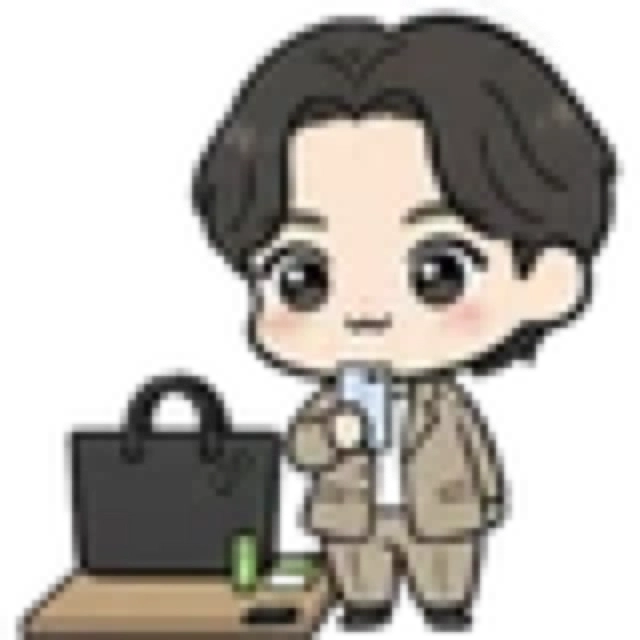
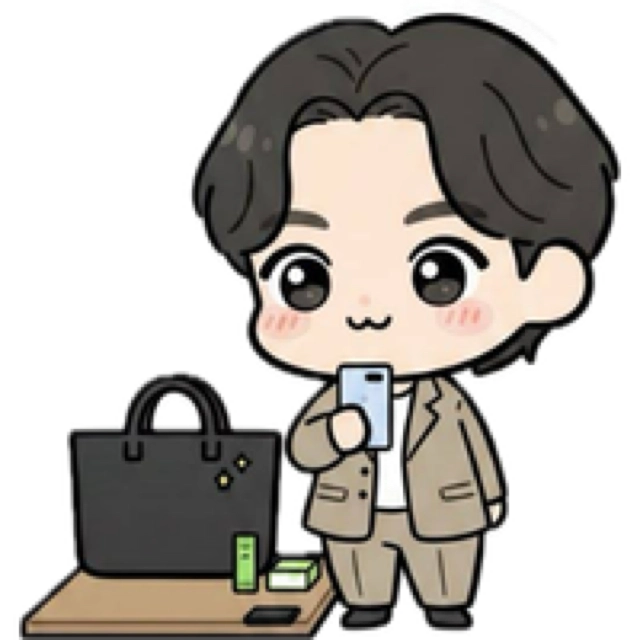
マスコット高解像度画像差し替え + CEOページ重なり修正
- マスコット画像を元200px高解像度PNGから640px WebPに変換（画質大幅改善）
- CEOページのパンくず「HOME／代表紹介」とマスコットの重なりを修正
- image-rendering:high-quality追加

Changed region(s): [[0.0, 0.0, 1.0, 1.0], [0.8125, 0.0625, 0.875, 0.125], [0.75, 0.25, 0.7812, 0.2812]]

diff --git a/trillionbank/ceo/index.html b/trillionbank/ceo/index.html
@@ -40,7 +40,8 @@ permalink: /trillionbank/ceo/
 </script>
 <style>
   .ceo-hero{padding:clamp(120px,16vw,180px) 0 clamp(60px,8vw,100px);text-align:center;position:relative}
-  .ceo-mascot{width:clamp(140px,18vw,200px);height:auto;margin:0 auto clamp(24px,3vw,36px);animation:mascot3D 6s ease-in-out infinite;filter:drop-shadow(0 12px 24px rgba(37,99,235,.2)) drop-shadow(0 4px 8px rgba(0,0,0,.08));transform-style:preserve-3d}
+  .ceo-hero .crumb{margin-bottom:clamp(32px,5vw,56px)}
+  .ceo-mascot{width:clamp(140px,18vw,200px);height:auto;margin:0 auto clamp(24px,3vw,36px);animation:mascot3D 6s ease-in-out infinite;filter:drop-shadow(0 12px 24px rgba(37,99,235,.2)) drop-shadow(0 4px 8px rgba(0,0,0,.08));transform-style:preserve-3d;image-rendering:high-quality}
   @keyframes mascot3D{
     0%{transform:translateY(0) rotateY(0deg) rotateX(0deg) scale(1)}
     15%{transform:translateY(-8px) rotateY(8deg) rotateX(-3deg) scale(1.02)}
